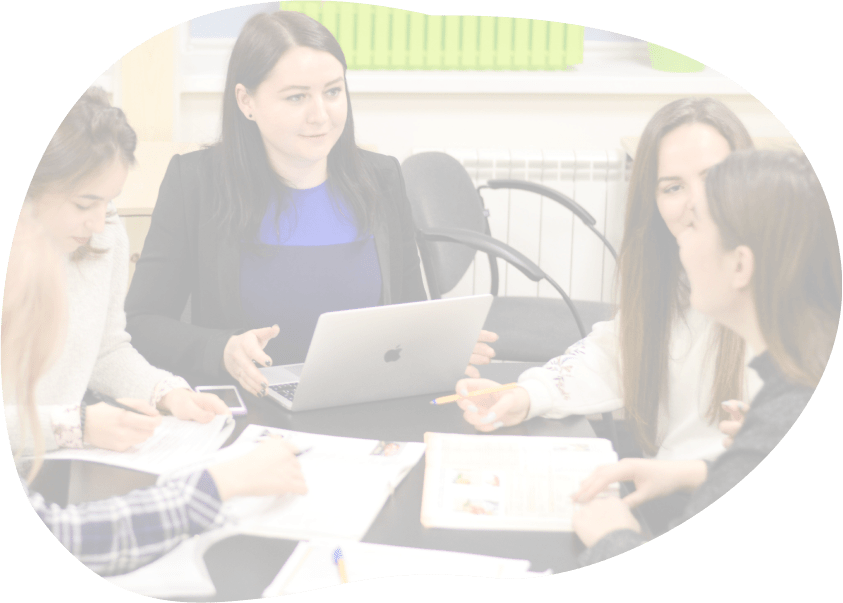
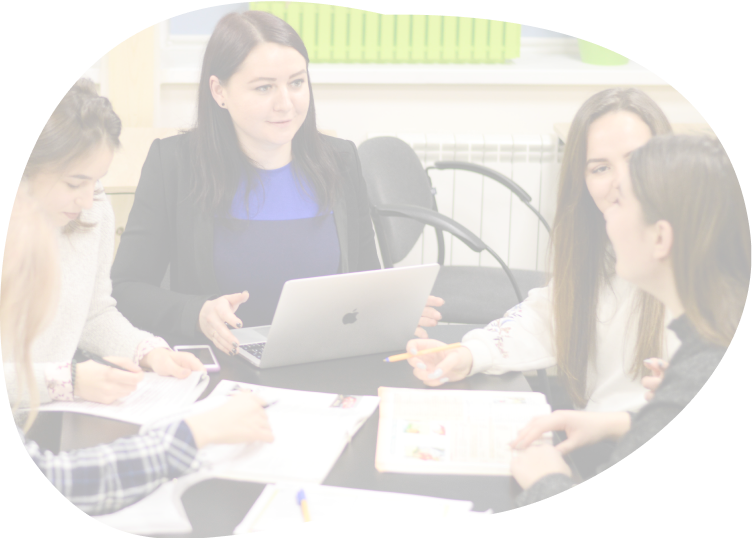
scss upd desk images

diff --git a/src/sass/layout/_hero.scss b/src/sass/layout/_hero.scss
@@ -151,6 +151,7 @@
 }
 
 
+
 @media screen and (min-width: 768px) and (max-width: 1299px) {
 
     .hero {
@@ -175,7 +176,7 @@
         display: flex;
         height: 315px;
         width: 768px;
-        
+
         }
 
         
@@ -241,6 +242,7 @@
 
 }   
 
+
 @media screen and (min-width: 1300px) {
     .hero {
         background-image: url('../images/desktop/background.png');
@@ -248,9 +250,12 @@
         background-position-x:-63px;
         background-position-y:-140px;
         
+        
+        padding: 0 30px;
+        margin: 0 auto;
+
         &-section {
-            padding: 0 30px;
-            margin: 0 auto;
+            padding: 0;
             width: 1300px;
             height: 720px;
             
@@ -258,7 +263,7 @@
     
         .hero-section__title-and-picture {
             display: flex;
-            width: 1490px;
+            
             height: 720px;
         }
 
@@ -313,17 +318,27 @@
     
         &-section__pictures {
             display: flex;
-            justify-content: center;
+            justify-content: space-evenly;
             
-            width: 842px;
-            height: 720px;
+            width: 615px;
+            height: 507px;
             padding: 0;
+            padding-left: 45px;
+            margin-top: 30px;
             background-image: url('../images/desktop/hero-desktopellipseback.png');
             background-repeat: no-repeat;
-            background-position-y: 39px;
-            background-position-x: -1px;
+            background-position-y: 32px;
+            background-position-x: 0px;
+            background-size: contain;
+            
+            
         }
         
+        .hero-section__pictures-modified {
+            width: 541px;
+            height: 541px;
+            display: flex;
+        }
         
     
         &-section__container {
@@ -334,8 +349,7 @@
             width: 1300px;
             max-width: 99%;
             padding-top: 0;
-            padding-left: 29px;
-            padding-right: 29px;
+            
             
             
             

diff --git a/src/partials/hero.html b/src/partials/hero.html
@@ -15,14 +15,14 @@
             </div>
             
             <div class="hero-section__pictures">
-                <picture>
+                <picture class="hero-section__pictures-modified">
 
                     <source srcset="./images/desktop/hero-desktop-ellipse1.webp 1x, ./images/desktop/hero-desktop-ellipse1@2x.webp 2x"
                     media="(min-width: 1300px)" type="image/webp">
                     <source srcset="./images/desktop/hero-desktop-ellipse1.png 1x, ./images/desktop/hero-desktop-ellipse1@2x.png 2x"
                     media="(min-width: 1300px)">
-                    
-                    
+
+
                     <source srcset="./images/tablet/hero-tablet-ellipse2.webp 1x, ./images/tablet/hero-tablet-ellipse2@2x.webp 2x"
                     media="(min-width: 768px)" type="image/webp">
                     <source srcset="./images/tablet/hero-tablet-ellipse2.png 1x, ./images/tablet/hero-tablet-ellipse2@2x.png 2x"
